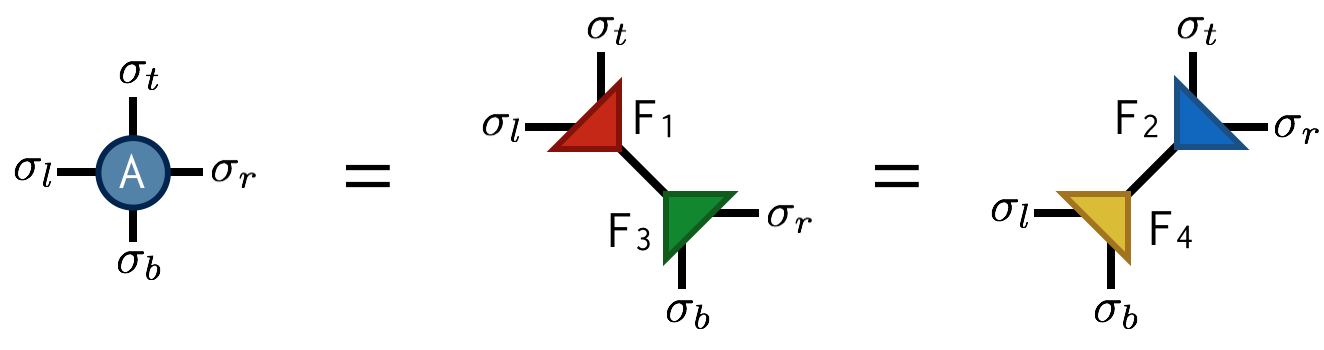
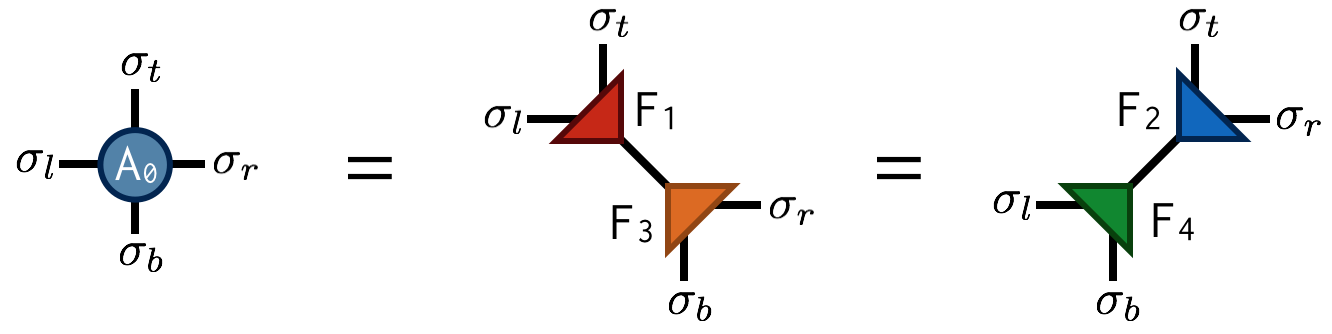
Fixed some colors and improved notation in TRG chapter

diff --git a/docs/book/trg.md b/docs/book/trg.md
@@ -107,19 +107,19 @@ fashion because the energy was defined to use periodic boundary conditions.
 We can use TRG to compute the above network, which is just equal to a single number @@Z@@
 (since there are no uncontracted external indices). The TRG approach is to locally replace 
 individual @@A@@ tensors with pairs of lower-rank tensors which guarantee the result of the contraction
-remains the same. These smaller tensors can be efficiently combined together, resulting in
-a more sparse network.
+remains the same. These smaller tensors can then be recombined in a different way that results in
+a more sparse, yet equivalent network.
 
-The first "move" of TRG is to factorize the @@A@@ tensor making up the network in two different
-ways:
+Referring to the original @@A@@ tensor as @@A\_0@@, the first "move" of 
+TRG is to factorize the @@A\_0@@ tensor in two different ways:
 
 <img class="diagram" width="85%" src="docs/book/images/TRG_factor2ways.png"/>
 
 Both factorizations can be computed using the [[singular value decomposition (SVD)|book/itensor_factorizing]].
-For example, to compute the first factorization, view @@A@@ as a matrix with "row"
-indices @@\sigma\_l@@ and @@\sigma\_t@@ and "column" indices @@\sigma\_b@@ and @@\sigma\_r@@. 
-After performing an SVD of @@A@@ in this way, the singular value matrix @@S@@ is factorized
-as @@S = \sqrt{S} \sqrt{S}@@ and these two factors are absorbed into the unitaries
+For example, to compute the first factorization, view @@A\_0@@ as a matrix with a collective "row"
+index @@\sigma\_l@@ and @@\sigma\_t@@ and collective "column" index @@\sigma\_b@@ and @@\sigma\_r@@. 
+After performing an SVD of @@A\_0@@ in this way, further factorize the singular value matrix @@S@@ 
+as @@S = \sqrt{S} \sqrt{S}@@ and absorb each @@\sqrt{S}@@ factor into 
 U and V to create the factors @@F\_1@@ and @@F\_2@@. Pictorially:
 
 <img class="diagram" width="100%" src="docs/book/images/TRG_factorizing.png"/>
@@ -129,7 +129,7 @@ values and discarding the columns of U and V corresponding to the smaller singul
 This truncation is crucial for keeping the costs of the TRG algorithm under control.
 
 Making the above substitutions, either
-@@A=F\_1 F\_3@@ or @@A=F\_2 F\_4@@ on alternating lattice sites, transforms the
+@@A\_0=F\_1 F\_3@@ or @@A\_0=F\_2 F\_4@@ on alternating lattice sites, transforms the
 original tensor network into the following network:
 
 <img class="diagram" width="90%" src="docs/book/images/TRG_network1.png"/>
@@ -138,15 +138,17 @@ Finally by contracting the four F tensors in the following way
 
 <img class="diagram" width="40%" src="docs/book/images/TRG_group.png"/>
 
-one obtains the tensor @@A^\prime@@ which has four indices just like @@A@@.
-Contracting the @@A^\prime@@ tensors in a square-lattice pattern gives the 
-same result (up to SVD truncation errors) as contracting the original @@A@@ tensors,
-only there are half as many @@A^\prime@@ tensors (each @@A@@ consists
-of two F's while each @@A^\prime@@ consists of four F's).
+one obtains the tensor @@A\_1@@ which has four indices just like @@A\_0@@.
+Contracting the @@A\_1@@ tensors in a square-lattice pattern gives the 
+same result (up to SVD truncation errors) as contracting the original @@A\_0@@ tensors,
+only there are half as many @@A\_1@@ tensors (each @@A\_0@@ consists
+of two F's while each @@A\_1@@ consists of four F's).
+
+<img class="diagram" width="80%" src="docs/book/images/TRG_recombine.png"/>
 
 To compute @@Z@@ defined by contracting a square lattice of @@2^N@@ tensors, one
 repeats the above two steps (factor and recombine) N times until only a single
-tensor remains. Calling this tensor @@A\_N@@, the result @@Z@@ of contracting
+tensor remains. Calling this final tensor @@A\_N@@, the result @@Z@@ of contracting
 the original network is equal to the following "double trace" of @@A\_N@@:
 
 <img class="diagram" width="20%" src="docs/book/images/TRG_top.png"/>
